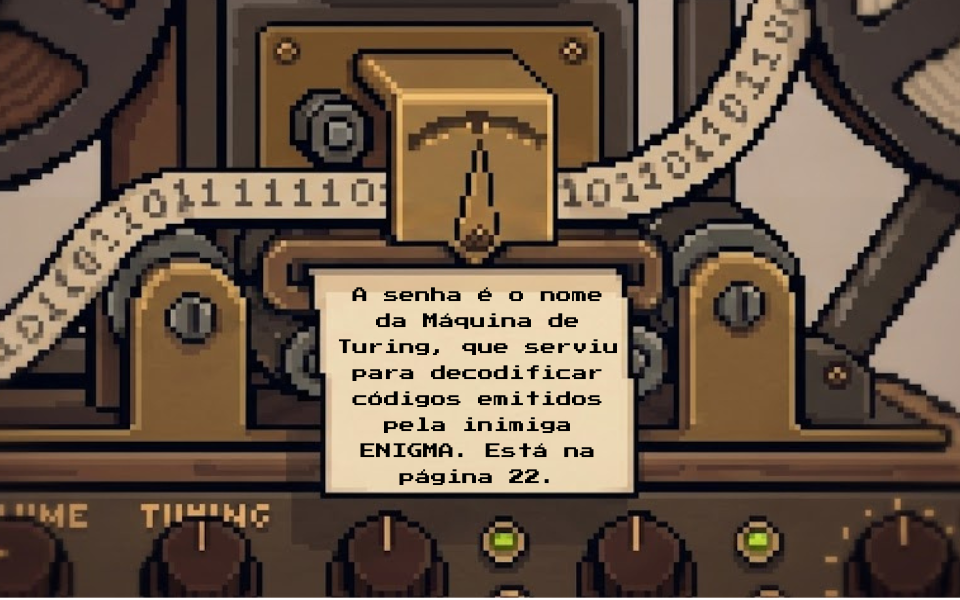
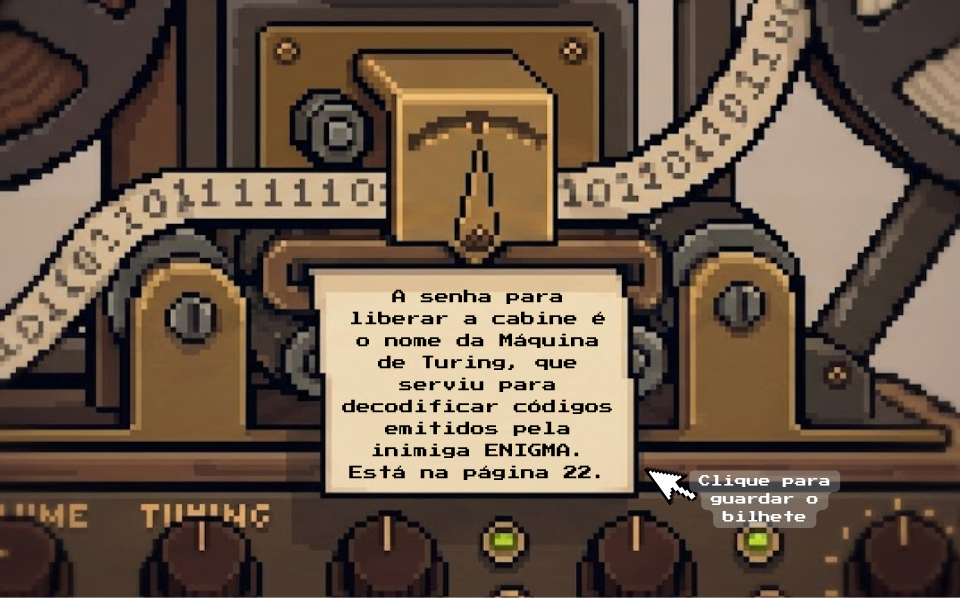
Atualização

Changed region(s): [[0.3438, 0.48, 0.6562, 0.81], [0.6562, 0.78, 0.875, 0.9]]

diff --git a/Pygame/fase_1/Pygame/fase_1/fase_1.py b/Pygame/fase_1/Pygame/fase_1/fase_1.py
@@ -195,8 +195,8 @@ imagem_capsula_original = imagem_capsula_bruta.subsurface(
     imagem_capsula_bruta.get_bounding_rect(min_alpha=10)
 ).copy()
 
-MARGEM_CAPSULA_ABACO = 5  # folga entre a cápsula e o início do ábaco, pra não encostar "grudado"
-ALTURA_CAPSULA_ALVO = 330  # ~18% maior que os 280px anteriores
+MARGEM_CAPSULA_ABACO = -780  # folga entre a cápsula e o início do ábaco, pra não encostar "grudado"
+ALTURA_CAPSULA_ALVO = 360  # ~18% maior que os 280px anteriores
 _fator_escala_capsula = ALTURA_CAPSULA_ALVO / imagem_capsula_original.get_height()
 
 imagem_capsula = pygame.transform.scale(
@@ -205,7 +205,7 @@ imagem_capsula = pygame.transform.scale(
 )
 
 CAPSULA_POS_X = AREA_ABACO.left - MARGEM_CAPSULA_ABACO - imagem_capsula.get_width()
-CAPSULA_POS_Y = ALTURA_JANELA - 20 - imagem_capsula.get_height()  # apoiada no chão
+CAPSULA_POS_Y = ALTURA_JANELA - 80 - imagem_capsula.get_height()  # apoiada no chão
 
 # ==============================================================================
 # === CHATBOT (GERBERT) — VISUAL: ícone, avatar e caixinha de diálogo ===

diff --git a/Pygame/Fase_4/fase4_final.py b/Pygame/Fase_4/fase4_final.py
@@ -55,7 +55,7 @@ LARGURA, ALTURA = 960, 600
 FPS = 60
 
 # Tempo total da fase, em segundos (5 minutos)
-TEMPO_LIMITE_SEGUNDOS = 1 * 60
+TEMPO_LIMITE_SEGUNDOS = 8 * 60
 
 
 # Cores utilitárias (RGB) usadas em textos e placeholders